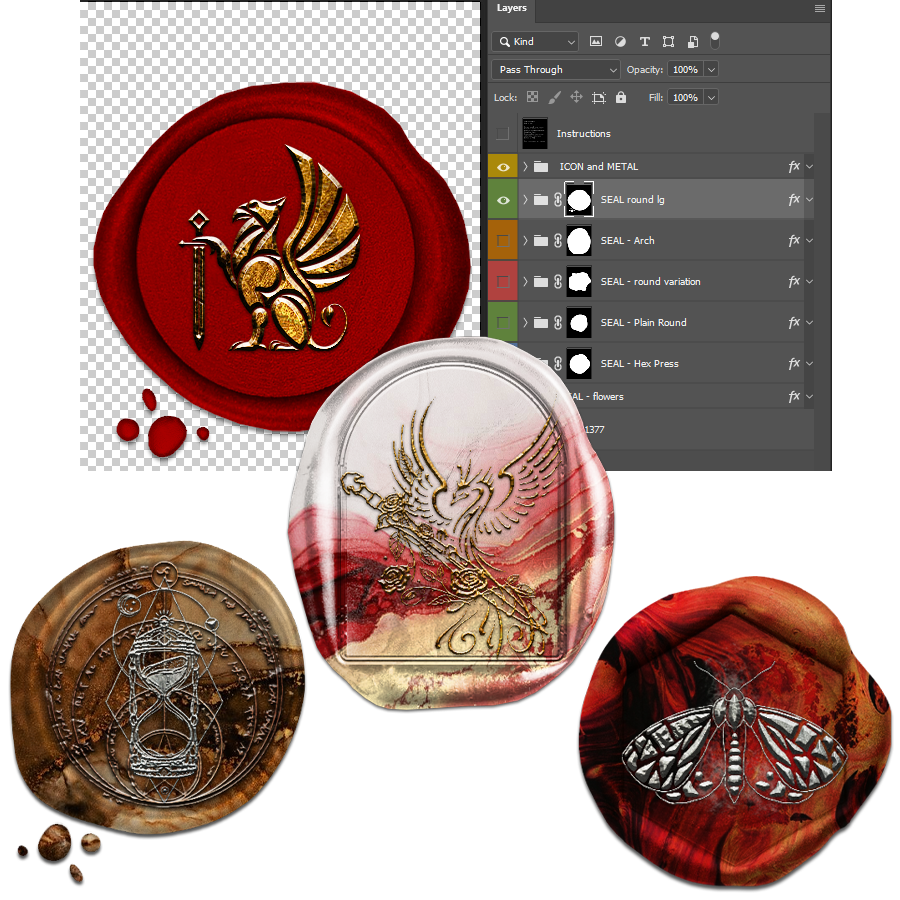
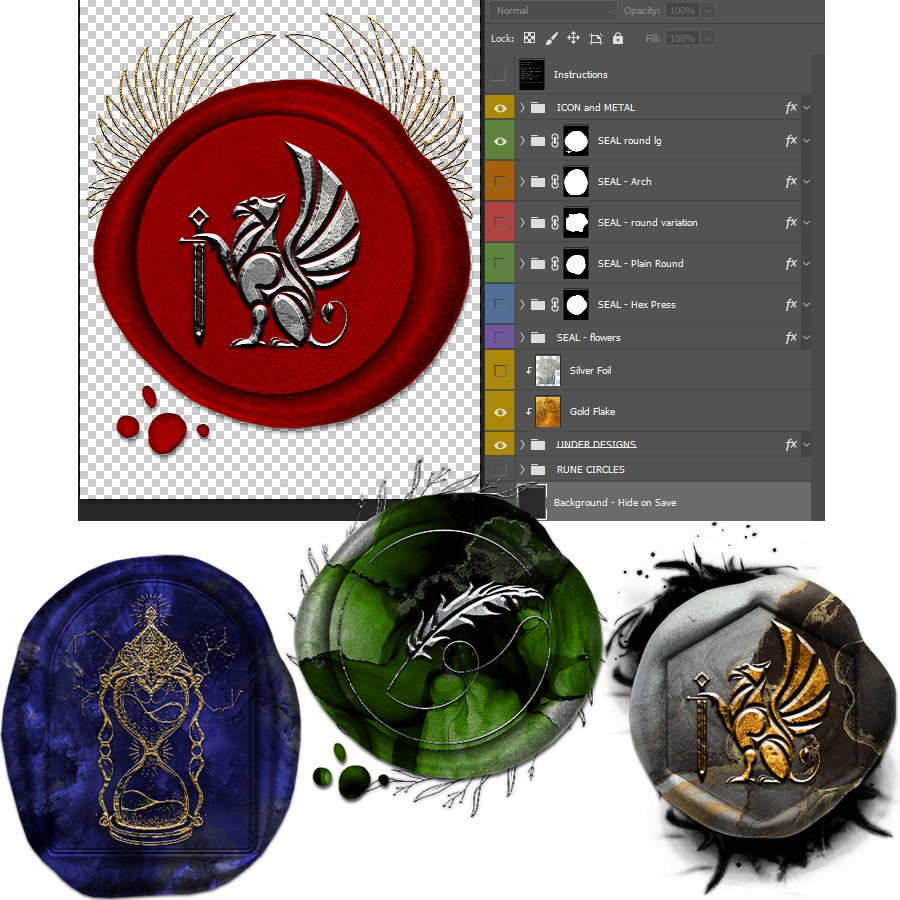
updates

diff --git a/docs/photoshop/wax-seals.md b/docs/photoshop/wax-seals.md
@@ -99,6 +99,8 @@ It's time to create your wax seal. These instructions will use the new round sea
     You can also add your own! Find a pattern you like, copy and paste it into those layer groups. Change the layer style from Normal to options like Multiply, Screen, Lighten, and so on till you find a look you like. It will automatically mask to fill just the wax seal.
     :::
 
+1. For **ROUND** seals, you have options for additional rings for the wax art and designs to show under the seal including golden leaves and filigree and magic circles. Show and hide the under options in UNDER DESIGNS and RUNE CIRCLES.
+
 1. Save as a *.png*. Click File > Export > Quick Export as a PNG. You can upload the image to Discord, Google docs, art galleries like Imgur, and much more!
 
 ## Example Seals
